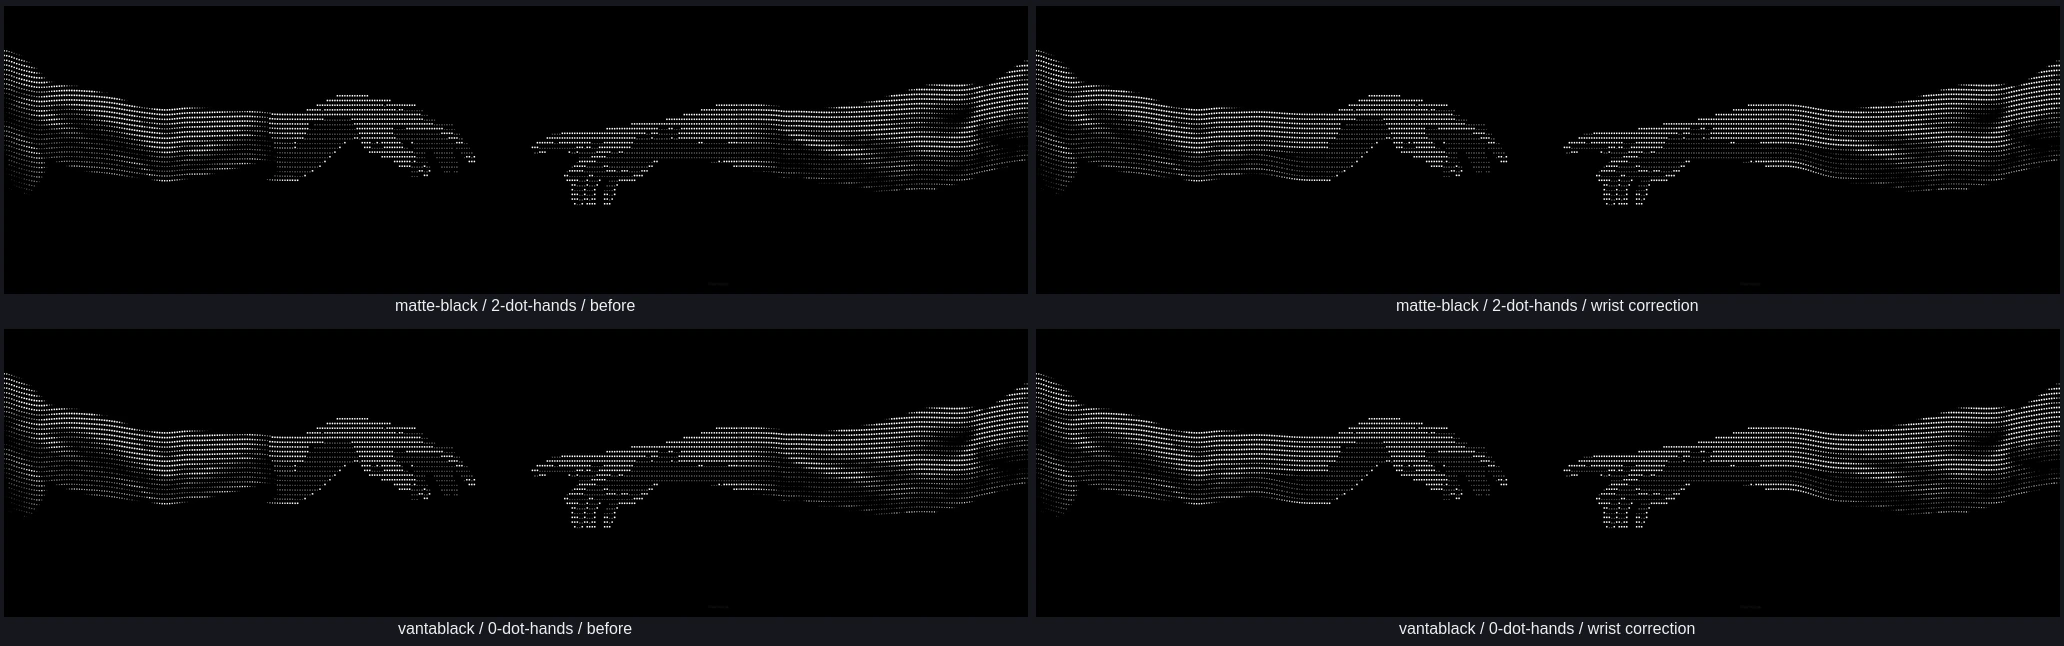
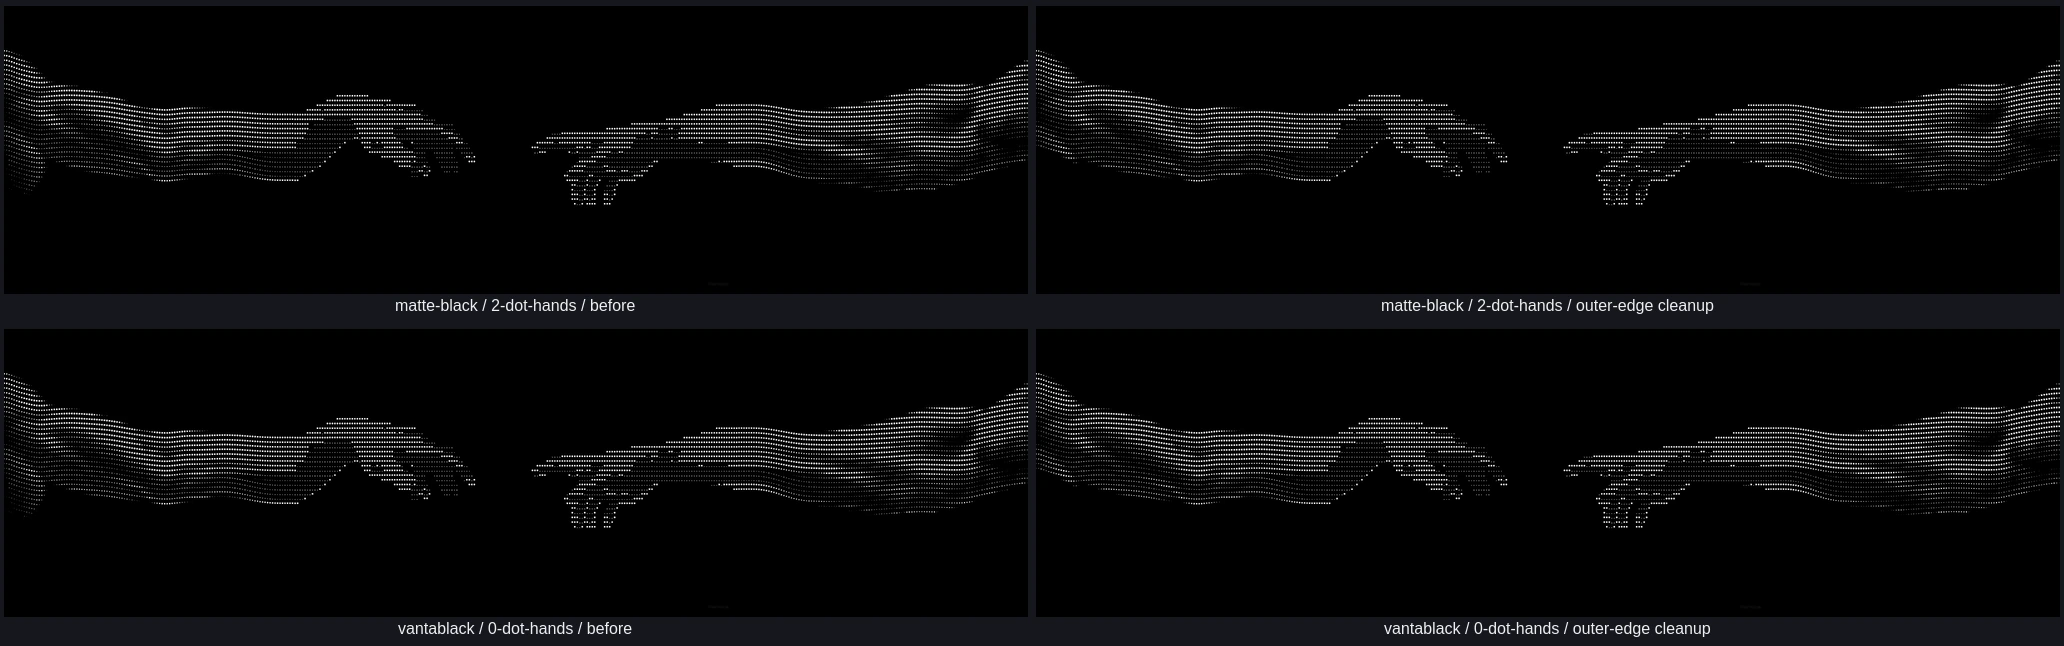
Smooth the far-left dotted arm contour

diff --git a/docs/ultrawide-backgrounds.md b/docs/ultrawide-backgrounds.md
@@ -16,7 +16,7 @@ Scenery, photography, textures, and complex illustrations use generative outpain
 
 Uniform backgrounds behind wordmarks and isolated motifs use the original field color. Designs with horizontal color bands continue their source edge colors by row. This preserves the existing typography, symbols, and line work without regenerating them.
 
-The dotted extensions use generated anatomical forearms, bent elbows and partial shoulders, guided by the first generations. Their contours, changing dot sizes, highlights and underside shadows come from the generated anatomy. Stippling is rendered directly at final canvas coordinates. Wrist attachments use the actual first source column's individual dot positions, radii, brightness and spacing, with ordered row correspondence into the existing arm. This preserves both wrist contours without merging rows or leaving isolated underside dots. Only the 384-pixel outer attachment regions change in the wrist correction; the rest of the generated anatomy remains pixel-exact.
+The dotted extensions use generated anatomical forearms, bent elbows and partial shoulders, guided by the first generations. Their contours, changing dot sizes, highlights and underside shadows come from the generated anatomy. Stippling is rendered directly at final canvas coordinates. Wrist attachments use the actual first source column's individual dot positions, radii, brightness and spacing, with ordered row correspondence into the existing arm. This preserves both wrist contours without merging rows or leaving isolated underside dots. The wrist correction changes only the 384-pixel outer attachment regions. A later cleanup removes a hanging lobe below the far-left arm by tapering individual dots in the first 288 pixels; both accepted wrists, the right arm and every pixel outside that small underside region remain unchanged.
 
 Completed boundary circles can overlap up to four pixels of empty black source margin. They are drawn above the source within that narrow allowance so the image boundary cannot clip a circle in half. Every original foreground pixel, including antialiased hand dots and the credit, remains unchanged; the protected interior also compares with absolute pixel error zero. The source file, hand placement and fingertip spacing remain unchanged.
 

diff --git a/docs/assets/ultrawide/gallery.md b/docs/assets/ultrawide/gallery.md
@@ -2,9 +2,9 @@
 
 All 98 compositions, rendered at 5120×1440 and reduced for this gallery. Original source files are byte unchanged. Six photographic variants blend only documented edge strips: 256 display pixels for Last Horizon 2/3, 64 for Gruvbox 1/2, Ristretto 2 and the right edge of Last Horizon 4. Protected centers remain pixel-exact after normal display scaling. The dotted-hand variants complete boundary circles over at most 4 pixels of empty black source edge, preserving every original foreground pixel.
 
-[Current before/after: Matte Black 2 and Vantablack 0 wrist corrections](revision-comparison.webp). All photographic compositions retain the preceding revisions.
+[Current before/after: Matte Black 2 and Vantablack 0 far-left contour cleanup](revision-comparison.webp). All photographic compositions and both accepted wrist joins retain the preceding revisions.
 
-[Native-resolution Last Horizon edge details](seam-details.webp) · [Both wrist joins at native display resolution](dot-details.webp) · [Vantablack full composition comparison](vantablack-arms.webp).
+[Native-resolution Last Horizon edge details](seam-details.webp) · [Far-left contour at native display resolution](left-edge-details.webp) · [Accepted wrist joins at native display resolution](dot-details.webp) · [Vantablack full composition comparison](vantablack-arms.webp).
 
 ## catppuccin, catppuccin-latte, ethereal, everforest
 
